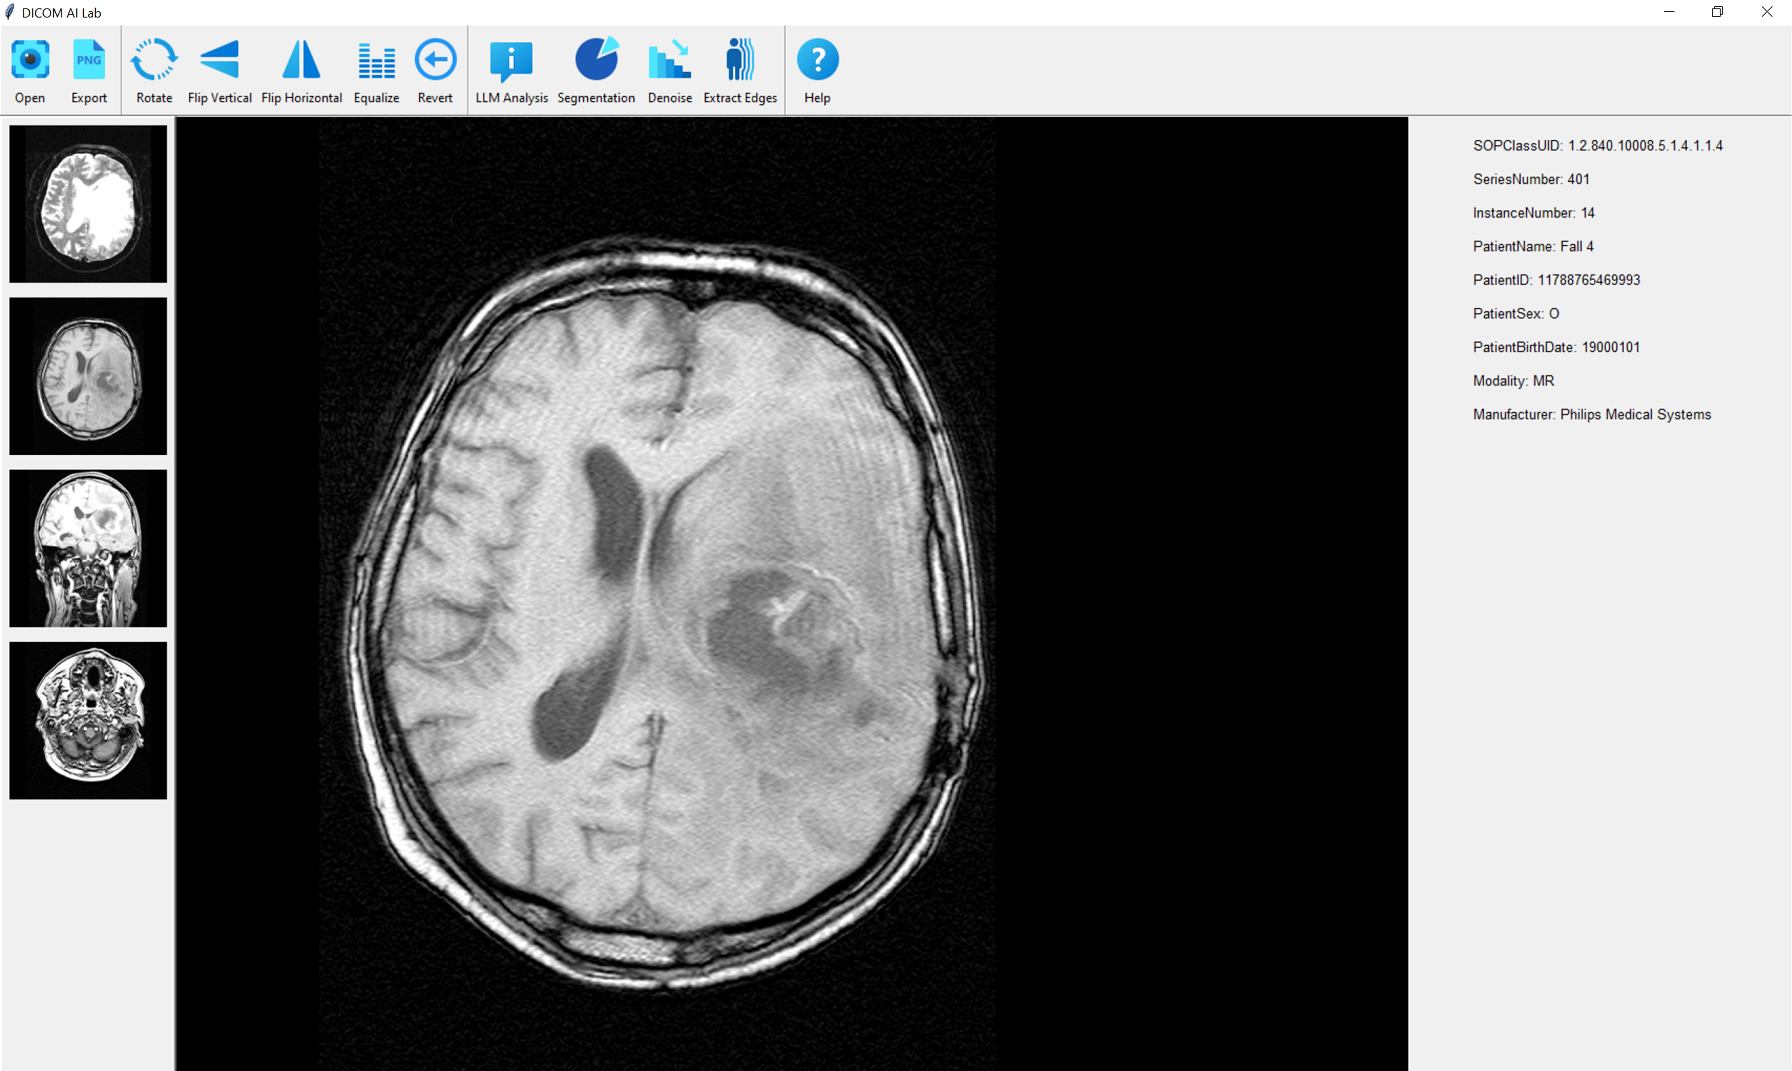
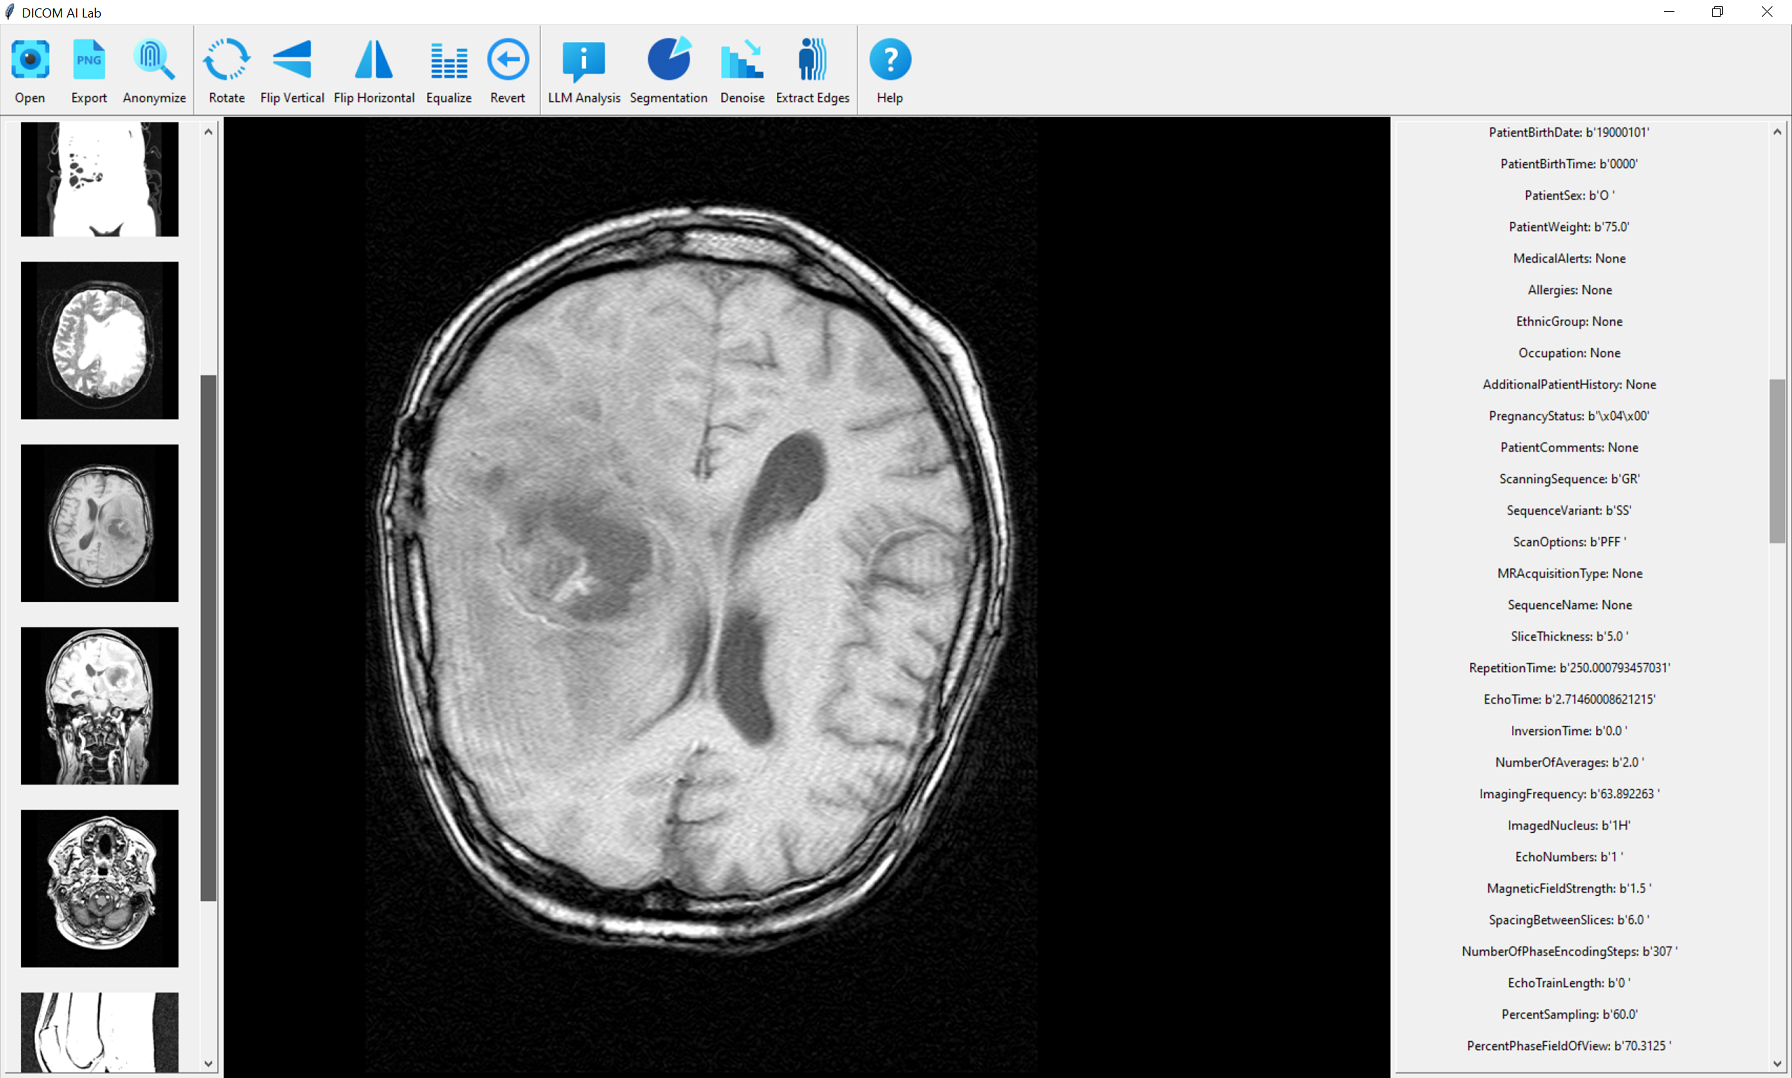
Fix SideBar width. Add 'anonymize' button to menu

Changed region(s): [[0.0, 0.0308, 1.0, 1.0], [0.1875, 0.1849, 0.5938, 0.9244], [0.9688, 0.0924, 1.0, 0.1232]]

diff --git a/viewer/MainFrame.py b/viewer/MainFrame.py
@@ -39,11 +39,11 @@ class MainFrame(Frame):
         self.loadSideBars()  
 
     def loadSideBars(self):
-        self.previewBar = SideBar(self.master, side="left", width=150)
+        self.previewBar = SideBar(self.master, side="left", width=180)
         self.tagBar = SideBar(self.master, side="right", width=350)   
 
     def loadIcons(self): 
-        icons = ['openseries', 'exportimg',                  
+        icons = ['openseries', 'exportimg', 'anonymize',                   
                  'rotate', 'flipvert', 'fliphoriz', 'histogram', 'revert',
                  'analyze', 'segmentation', 'noisereduct', 'edgedetect',
                  'help' ]    
@@ -56,6 +56,7 @@ class MainFrame(Frame):
         button_data = [
             ("Open", 'openseries', self.onOpen),  # Open Series
             ("Export", 'exportimg', self.onExport),  # Export Image
+            ("Anonymize", 'anonymize', self.onAnonymize),  # Export Image
             ("Rotate", 'rotate', self.onRotate),  # Rotate 90 CW
             ("Flip Vertical", 'flipvert', self.onFlipVertical),  # Flip Vertical
             ("Flip Horizontal", 'fliphoriz', self.onFlipHorizontal),  # Flip Horizontal
@@ -72,7 +73,7 @@ class MainFrame(Frame):
             button = Button(self.menubar, relief=FLAT, compound=TOP, text=text, image=self.icons[icon], command=command, pady=5) 
             button.pack(side="left", padx=0, pady=0)
 
-            if text in ["Export", "Revert", "Extract Edges"]: 
+            if text in ["Anonymize", "Revert", "Extract Edges"]: 
                 separator = ttk.Separator(self.menubar, orient='vertical')
                 separator.pack(side=LEFT, padx=2, pady=0, fill='y')
 
@@ -178,7 +179,11 @@ class MainFrame(Frame):
         if self.imgkey:
             # TODO Create edge detection result img of self.images[self.imgkey], add to previewbar and open in ImgCanvas 
             pass   
-                 
+
+    def onAnonymize(self):
+        if self.imgkey: 
+            pass     
+
     def onDocumentation(self):
         webbrowser.open(DOCURL)
 

diff --git a/viewer/SideBar.py b/viewer/SideBar.py
@@ -11,7 +11,7 @@ class SideBar(Frame):
         self.sidebar.pack(side=side, fill="y", padx=5, pady=5) 
 
         # Scrolling 
-        self.canvas = Canvas(self.sidebar)
+        self.canvas = Canvas(self.sidebar, width=width)
         self.canvas.pack(side="left", fill="both", expand=True) 
 
         self.scrollbar = Scrollbar(self.sidebar, orient="vertical", command=self.canvas.yview)
@@ -21,7 +21,7 @@ class SideBar(Frame):
         self.canvas.bind('<Configure>', lambda e: self.canvas.configure(scrollregion=self.canvas.bbox("all")))
 
         # Content
-        self.content = Frame(self.canvas)
+        self.content = Frame(self.canvas, width=width)
         self.content.pack_propagate(True)   
         self.canvas.create_window((0, 0), window=self.content, anchor="nw") 
  

diff --git a/README.md b/README.md
@@ -1,4 +1,4 @@
-DICOM Viewer using Pydicom, Tkinter, Pillow, Python3
+DICOM Viewer using Pydicom, Tkinter, Pillow, Python3  
 Icons by <a target="_blank" href="https://icons8.com">Icons8</a>
 
 1. Install pipenv with 'pip install pipenv'  
@@ -12,7 +12,7 @@ Icons by <a target="_blank" href="https://icons8.com">Icons8</a>
 4. Run main.py
 >> pipenv run python main.py 
 
-5. For IDE: Select activated environment as Python interpreter before running main.py 
+5. For IDE: Select activated environment as Python interpreter before running main.py  
 [ For Visual Studio Code use 'Python: Select Interpreter' command from the 'Command Palette' (Ctrl+Shift+P) ]
 
  
